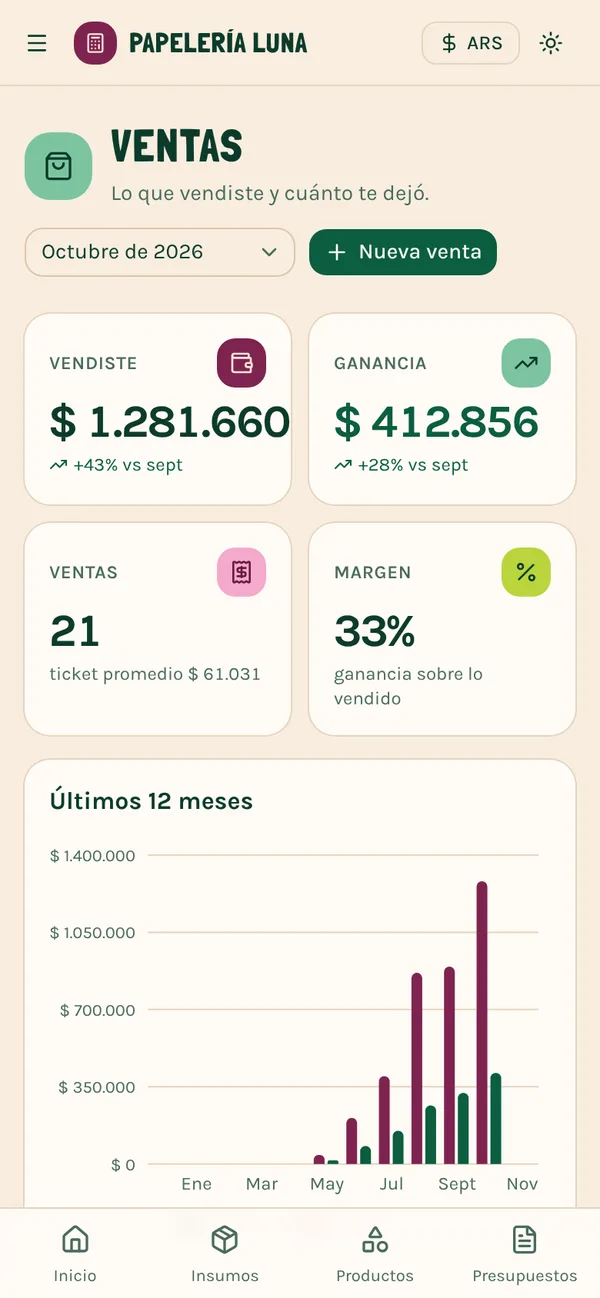
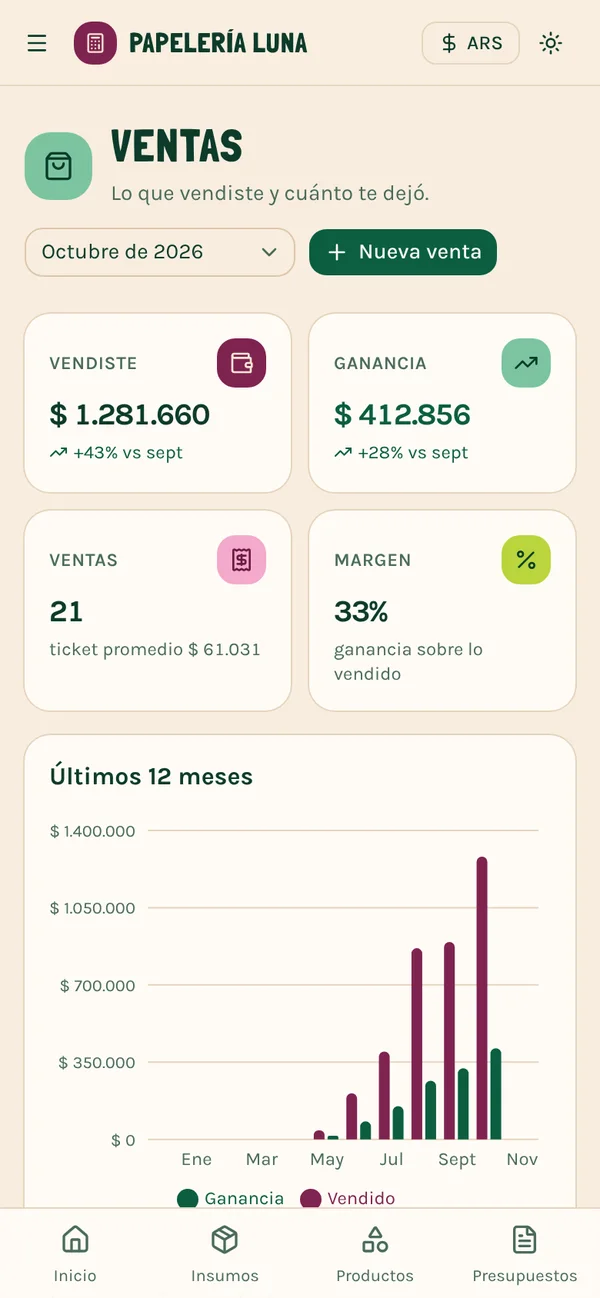
Presentación: capturas nuevas paso a paso
Carga de un insumo, receta del producto, cuánto te queda, precio por canal,
el PDF del presupuesto y las ventas del mes, cada una con su explicación.

Claude-Session: https://claude.ai/code/session_01J25emptcKCj9ScEQkAvN6K

diff --git a/src/app/presentacion/page.tsx b/src/app/presentacion/page.tsx
@@ -36,6 +36,46 @@ const STEPS = [
   { title: "Sabé cuánto cobrar", text: "Te sugiere el precio para cada canal de venta y te muestra cuánto te queda de verdad." },
 ];
 
+/** Las capturas, en el orden en que se usa la app. */
+const SHOTS = [
+  {
+    src: "/presentacion/insumo.webp",
+    title: "Cargás tus insumos",
+    text: "Lo que pagaste y cuánto trae: te dice cuánto sale cada uno.",
+    alt: "Carga de un insumo: pouch A4 a $28.949 el paquete de 100, cada pouch sale $289,49",
+  },
+  {
+    src: "/presentacion/receta.webp",
+    title: "Armás la receta",
+    text: "Qué lleva cada producto y cuánto de cada insumo.",
+    alt: "Receta de una agenda con sus insumos, cantidades y costo de cada uno",
+  },
+  {
+    src: "/presentacion/ganancia.webp",
+    title: "Sabés cuánto te queda",
+    text: "El costo real por unidad y tu ganancia, sin cuentas a mano.",
+    alt: "Costo por unidad de la agenda y cuánto te queda al venderla",
+  },
+  {
+    src: "/presentacion/canales.webp",
+    title: "Precio para cada canal",
+    text: "Venta directa, tienda online o mayorista, con las comisiones.",
+    alt: "Precio sugerido por canal de venta y precios por cantidad",
+  },
+  {
+    src: "/presentacion/pdf.webp",
+    title: "Presupuesto en PDF",
+    text: "Con tu logo, listo para mandar por WhatsApp.",
+    alt: "Presupuesto en PDF con los datos del emprendimiento, el cliente, los productos y el total",
+  },
+  {
+    src: "/presentacion/ventas.webp",
+    title: "Tus ventas del mes",
+    text: "Cuánto vendiste y cuánto ganaste, mes a mes.",
+    alt: "Ventas del mes: vendido, ganancia, cantidad de ventas y gráfico de los últimos meses",
+  },
+];
+
 const FEATURES: { icon: LucideIcon; title: string; text: string }[] = [
   { icon: PackageIcon, title: "Insumos con historial", text: "Ves cómo suben los precios y te avisa cuando hace mucho que no los actualizás." },
   { icon: ShapesIcon, title: "Productos con receta", text: "Si sube un insumo, todos los productos que lo usan se recalculan solos." },
@@ -106,7 +146,7 @@ export default function PresentacionPage() {
               <span className="text-sm text-lavanda">Gratis para siempre con insumos y productos.</span>
             </div>
           </div>
-          <Shot src="/presentacion/precio.webp" alt="Precio sugerido de una agenda: costo, margen y cuánto te queda" className="mx-auto w-64 md:w-full md:rotate-2" />
+          <Shot src="/presentacion/ganancia.webp" alt="Costo de una agenda por unidad, dividido en materiales, mano de obra y fijos, y cuánto te queda al venderla" className="mx-auto w-64 md:w-full md:rotate-2" />
         </div>
       </section>
 
@@ -129,19 +169,19 @@ export default function PresentacionPage() {
         <div className="mx-auto max-w-6xl px-4">
           <h2 className="font-display text-3xl tracking-wide uppercase sm:text-4xl">Todo tu emprendimiento en un lugar</h2>
           <p className="mt-2 max-w-2xl text-menta">De lo que comprás a lo que vendés, con números claros.</p>
-          <div className="mt-8 grid grid-cols-2 gap-4 sm:gap-6 md:grid-cols-4">
-            {[
-              { src: "/presentacion/insumos.webp", alt: "Lista de insumos con su costo y alertas de precios viejos", label: "Tus insumos" },
-              { src: "/presentacion/precio.webp", alt: "Precio sugerido por canal de venta", label: "Tu precio" },
-              { src: "/presentacion/presupuesto.webp", alt: "Presupuesto con botones para PDF y WhatsApp", label: "Tus presupuestos" },
-              { src: "/presentacion/ventas.webp", alt: "Ventas y ganancia del mes con gráfico", label: "Tus ventas" },
-            ].map((s) => (
-              <figure key={s.src} className="grid gap-2">
+          <ol className="mt-8 grid grid-cols-2 gap-x-4 gap-y-8 sm:gap-x-6 md:grid-cols-3">
+            {SHOTS.map((s, i) => (
+              <li key={s.src} className="grid content-start gap-3">
                 <Shot src={s.src} alt={s.alt} className="border-[4px] border-nube/90" />
-                <figcaption className="text-center text-sm font-semibold text-halo">{s.label}</figcaption>
-              </figure>
+                <div className="text-center">
+                  <p className="font-semibold text-halo">
+                    {i + 1}. {s.title}
+                  </p>
+                  <p className="mt-0.5 text-sm text-menta">{s.text}</p>
+                </div>
+              </li>
             ))}
-          </div>
+          </ol>
         </div>
       </section>
 
